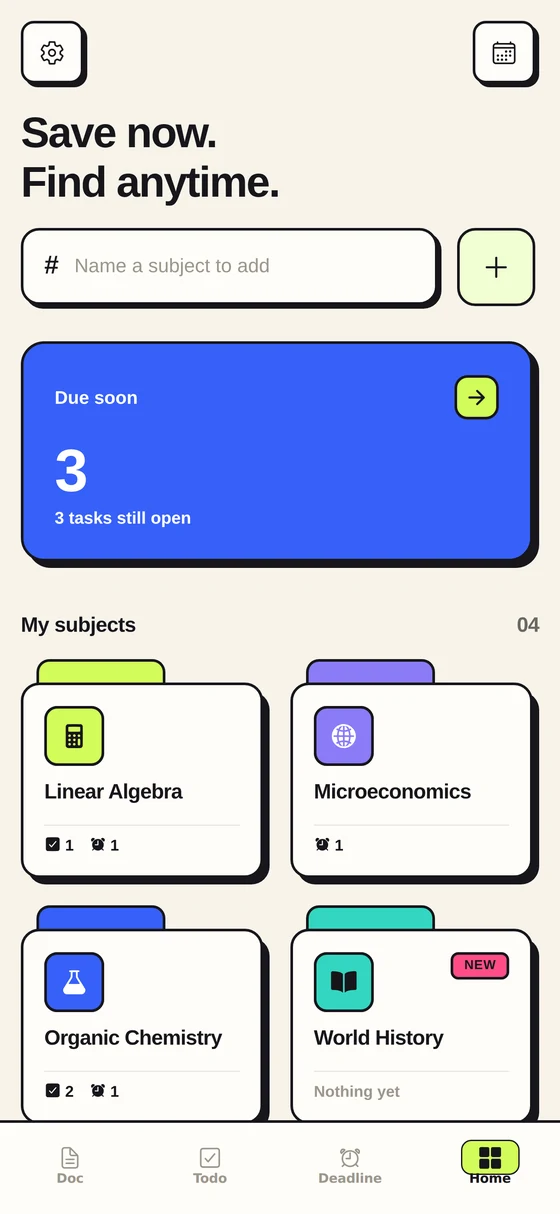
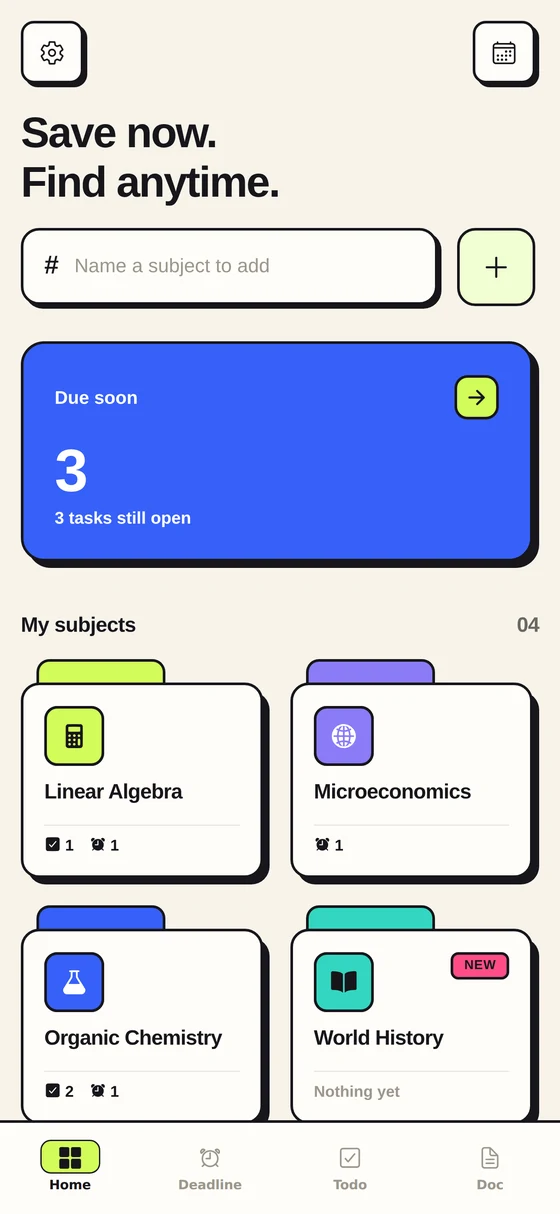
Put Home first, and say which step the export failed at
Tab order is now `home | deadline | todo | doc`, the drawn order reversed.
It was built as drawn, from page 3 of the notes, and that was the wrong
trade: Home is where every other screen is reached from, so making the
thumb cross the whole bar to get back costs more than matching the sketch.
`tests/smoke.mjs` finds tabs by position, so its `TAB_ORDER` moves with it.

The active pill is now a fixed 46x26 box with the glyph centred in it,
rather than padding on the icon. Padding sized the pill to whatever glyph it
held, so each tab's highlight came out a different width. The label's
`marginTop` goes from -2 to 3: -2 was tuned when the active icon had no
visible edge, and against the pill's outline the label touched it. Measured
after: all four pills 46pt wide, each centred on its own label to within
0.1pt, all four labels on one baseline.

The calendar export failing on a real device turned up two bugs.

The first is why it said "could not reach the calendar" on a phone with a
working calendar: one try/catch wrapped the permission request, the default
lookup and the calendar listing, so any of four unrelated causes produced
the same sentence -- true, useless, and impossible to act on. Each step now
has its own guard and its own message, with a code (E1-E5) so a screenshot
says which step failed. There is no crash reporting in this app and no way
to read someone else's device, so the code earns its place in the UI.
[…]

diff --git a/app/(tabs)/_layout.tsx b/app/(tabs)/_layout.tsx
@@ -1,13 +1,17 @@
 import { Ionicons } from '@expo/vector-icons';
 import { Tabs } from 'expo-router';
+import { StyleSheet, View } from 'react-native';
 import type { ColorValue } from 'react-native';
 
-import { border, colors, radius, spacing } from '@/theme';
+import { border, colors, radius } from '@/theme';
 
 /**
- * Home is last in the bar, as drawn on page 3 of the notes, but it is still
- * the tab a cold launch lands on — an empty Doc list is a poor first screen.
- * Tab order follows the order these <Tabs.Screen> entries are declared in.
+ * Home is first in the bar, and the tab a cold launch lands on.
+ *
+ * Page 3 of the notes draws it last, and it was built that way, but a home
+ * tab the thumb has to cross the whole bar to reach is the wrong trade: it
+ * is where every other screen is reached from. Order follows the order these
+ * <Tabs.Screen> entries are declared in.
  */
 export const unstable_settings = {
   initialRouteName: 'index',
@@ -25,7 +29,9 @@ export default function TabsLayout() {
           fontSize: 10,
           fontWeight: '700',
           letterSpacing: -0.1,
-          marginTop: -2,
+          // Positive, not negative. It was -2, tuned when the active icon had
+          // no visible edge; against the pill's outline the label touched it.
+          marginTop: 3,
         },
         tabBarStyle: {
           backgroundColor: colors.surface,
@@ -39,17 +45,10 @@ export default function TabsLayout() {
       }}
     >
       <Tabs.Screen
-        name="docs"
+        name="index"
         options={{
-          title: 'Doc',
-          tabBarIcon: (props) => <TabIcon {...props} name="document-text" />,
-        }}
-      />
-      <Tabs.Screen
-        name="todo"
-        options={{
-          title: 'Todo',
-          tabBarIcon: (props) => <TabIcon {...props} name="checkbox" />,
+          title: 'Home',
+          tabBarIcon: (props) => <TabIcon {...props} name="grid" />,
         }}
       />
       <Tabs.Screen
@@ -60,17 +59,33 @@ export default function TabsLayout() {
         }}
       />
       <Tabs.Screen
-        name="index"
+        name="todo"
         options={{
-          title: 'Home',
-          tabBarIcon: (props) => <TabIcon {...props} name="grid" />,
+          title: 'Todo',
+          tabBarIcon: (props) => <TabIcon {...props} name="checkbox" />,
+        }}
+      />
+      <Tabs.Screen
+        name="docs"
+        options={{
+          title: 'Doc',
+          tabBarIcon: (props) => <TabIcon {...props} name="document-text" />,
         }}
       />
     </Tabs>
   );
 }
 
-/** The active tab gets a lime pill behind its icon. */
+/**
+ * The active tab gets a lime pill behind its icon.
+ *
+ * The pill is a fixed-size box with the glyph centred in it, rather than
+ * padding on the icon itself. Padding made the pill as wide as whatever
+ * glyph it held, so each tab's highlight came out a different width and sat
+ * off-centre against its label. The inactive state keeps the same box with a
+ * transparent border, so every icon occupies identical space and the labels
+ * share a baseline.
+ */
 function TabIcon({
   name,
   color,
@@ -81,30 +96,25 @@ function TabIcon({
   focused: boolean;
 }) {
   return (
-    <Ionicons
-      name={focused ? name : (`${name}-outline` as keyof typeof Ionicons.glyphMap)}
-      color={color as string}
-      size={19}
-      style={
-        focused
-          ? {
-              backgroundColor: colors.lime,
-              borderRadius: 8,
-              borderWidth: 1.5,
-              borderColor: border.color,
-              paddingHorizontal: spacing.md,
-              paddingVertical: 2,
-              overflow: 'hidden',
-            }
-          : {
-              // A transparent border keeps inactive icons the same height as
-              // the active one, so the labels sit on a common baseline.
-              borderWidth: 1.5,
-              borderColor: 'transparent',
-              paddingHorizontal: spacing.md,
-              paddingVertical: 2,
-            }
-      }
-    />
+    <View style={[styles.slot, focused ? styles.slotActive : null]}>
+      <Ionicons
+        name={focused ? name : (`${name}-outline` as keyof typeof Ionicons.glyphMap)}
+        color={color as string}
+        size={19}
+      />
+    </View>
   );
 }
+
+const styles = StyleSheet.create({
+  slot: {
+    width: 46,
+    height: 26,
+    alignItems: 'center',
+    justifyContent: 'center',
+    borderRadius: radius.sm - 2,
+    borderWidth: 1.5,
+    borderColor: 'transparent',
+  },
+  slotActive: { backgroundColor: colors.lime, borderColor: border.color },
+});

diff --git a/src/lib/nativeExport.ts b/src/lib/nativeExport.ts
@@ -28,37 +28,61 @@ const BLOCK_MS = 30 * 60 * 1000;
 async function writableCalendar(
   entity: Calendar.EntityTypes
 ): Promise<{ id: string } | { error: string }> {
+  const reminders = entity === Calendar.EntityTypes.REMINDER;
+  const what = reminders ? 'Reminders' : 'your calendar';
+
+  if (reminders && Platform.OS !== 'ios') {
+    return { error: 'Reminders is an iOS app. Try Add to calendar instead.' };
+  }
+
+  // Each step gets its own guard, and each failure its own message. One
+  // try/catch around the lot reported "could not reach the calendar" for
+  // four unrelated causes, which is what it said on a device with a working
+  // calendar -- true, useless, and impossible to act on. The codes are here
+  // so a screenshot says which step failed; there is no crash reporting and
+  // no way to read someone else's device.
+  let status: string;
   try {
-    if (entity === Calendar.EntityTypes.REMINDER && Platform.OS !== 'ios') {
-      return { error: 'Reminders is an iOS app. Try Add to calendar instead.' };
-    }
+    const permission = reminders
+      ? await Calendar.requestRemindersPermissionsAsync()
+      : await Calendar.requestCalendarPermissionsAsync();
+    status = permission.status;
+  } catch {
+    return { error: `${what} is not available in this build. (E1)` };
+  }
+  if (status !== 'granted') {
+    return {
+      error: `Unibud needs permission to add to ${what}. Enable it in system settings. (E2)`,
+    };
+  }
 
-    const permission =
-      entity === Calendar.EntityTypes.REMINDER
-        ? await Calendar.requestRemindersPermissionsAsync()
-        : await Calendar.requestCalendarPermissionsAsync();
-    if (permission.status !== 'granted') {
-      return {
-        error:
-          entity === Calendar.EntityTypes.REMINDER
-            ? 'Unibud needs permission to add to Reminders. Enable it in system settings.'
-            : 'Unibud needs permission to add to your calendar. Enable it in system settings.',
-      };
+  // The default-calendar shortcut is for events only. It returns the default
+  // *event* calendar, so using it for a reminder handed `createReminderAsync`
+  // an events calendar -- which is why Add to Reminders could never work.
+  // It is also allowed to fail: a device with no default calendar throws
+  // here, and the list below still has an answer.
+  if (Platform.OS === 'ios' && !reminders) {
+    try {
+      const preferred = await Calendar.getDefaultCalendarAsync();
+      if (preferred?.id && preferred.allowsModifications !== false) {
+        return { id: preferred.id };
+      }
+    } catch {
+      // fall through to the list
     }
+  }
 
-    // iOS has a default calendar for each entity type. Android has no
-    // default and no Reminders at all, so pick the first calendar that
-    // actually allows writing.
-    if (Platform.OS === 'ios') {
-      const fallback = await Calendar.getDefaultCalendarAsync();
-      if (fallback?.id) return { id: fallback.id };
-    }
+  try {
     const all = await Calendar.getCalendarsAsync(entity);
     const writable = all.find((c) => c.allowsModifications);
-    if (!writable) return { error: 'No calendar on this device accepts new entries.' };
-    return { id: writable.id };
+    if (writable) return { id: writable.id };
+    return {
+      error: all.length
+        ? `None of the ${all.length} ${reminders ? 'Reminders lists' : 'calendars'} on this device accept new entries. (E3)`
+        : `There are no ${reminders ? 'Reminders lists' : 'calendars'} set up on this device yet. (E4)`,
+    };
   } catch {
-    return { error: 'Could not reach the calendar on this device.' };
+    return { error: `Could not read ${what} on this device. (E5)` };
   }
 }
 

diff --git a/README.md b/README.md
@@ -425,10 +425,13 @@ Deliberately not built yet:
 
 Two deviations from the notes worth knowing about:
 
-- The tab bar is ordered `doc | todo | deadline | home`, as drawn. Home is
-  still the tab a cold launch lands on — `unstable_settings.initialRouteName`
-  in `app/(tabs)/_layout.tsx` pins that, since an empty Doc list is a poor
-  first screen. Tab order follows the order the `<Tabs.Screen>` entries are
-  declared in.
+- The tab bar is ordered `home | deadline | todo | doc`, which is the drawn
+  order reversed. It was built as drawn and then flipped: a home tab the
+  thumb has to cross the whole bar to reach is the wrong trade when it is
+  where every other screen is reached from. Home is also the tab a cold
+  launch lands on, pinned by `unstable_settings.initialRouteName` in
+  `app/(tabs)/_layout.tsx`. Order follows the order the `<Tabs.Screen>`
+  entries are declared in, and `tests/smoke.mjs` finds tabs positionally, so
+  its `TAB_ORDER` has to match.
 - Inside a subject, the three subject-scoped sections are a segmented control
   rather than a second tab bar, so the app-level tabs stay reachable.
